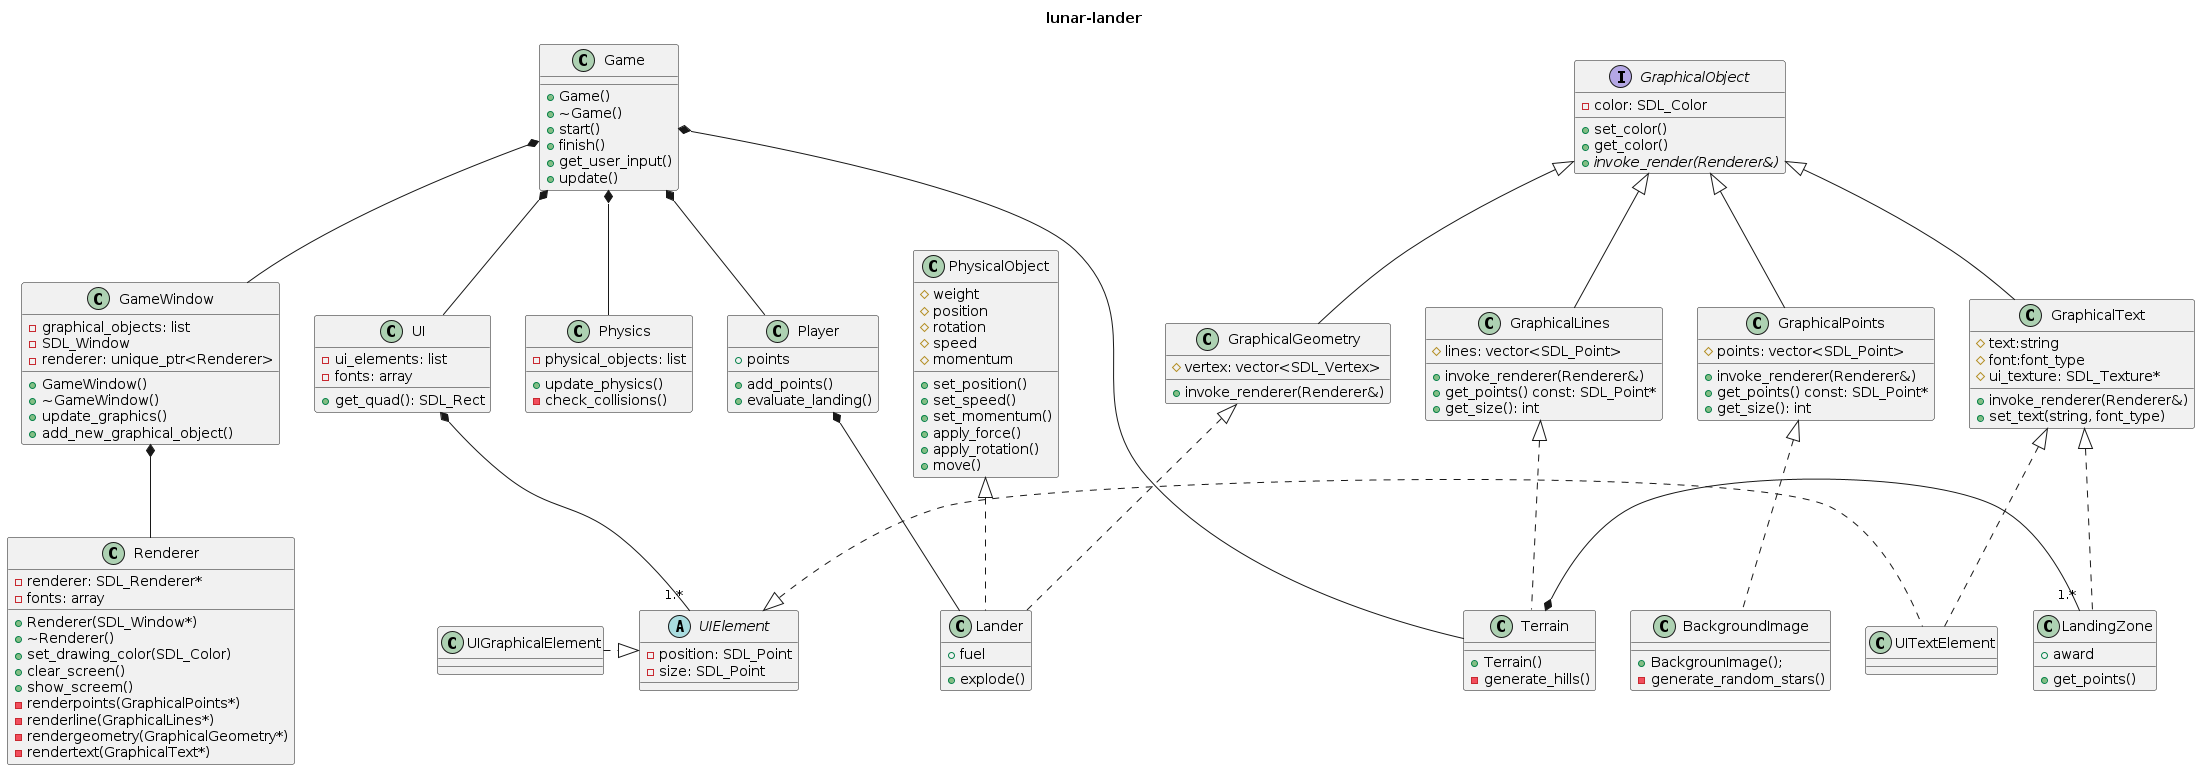
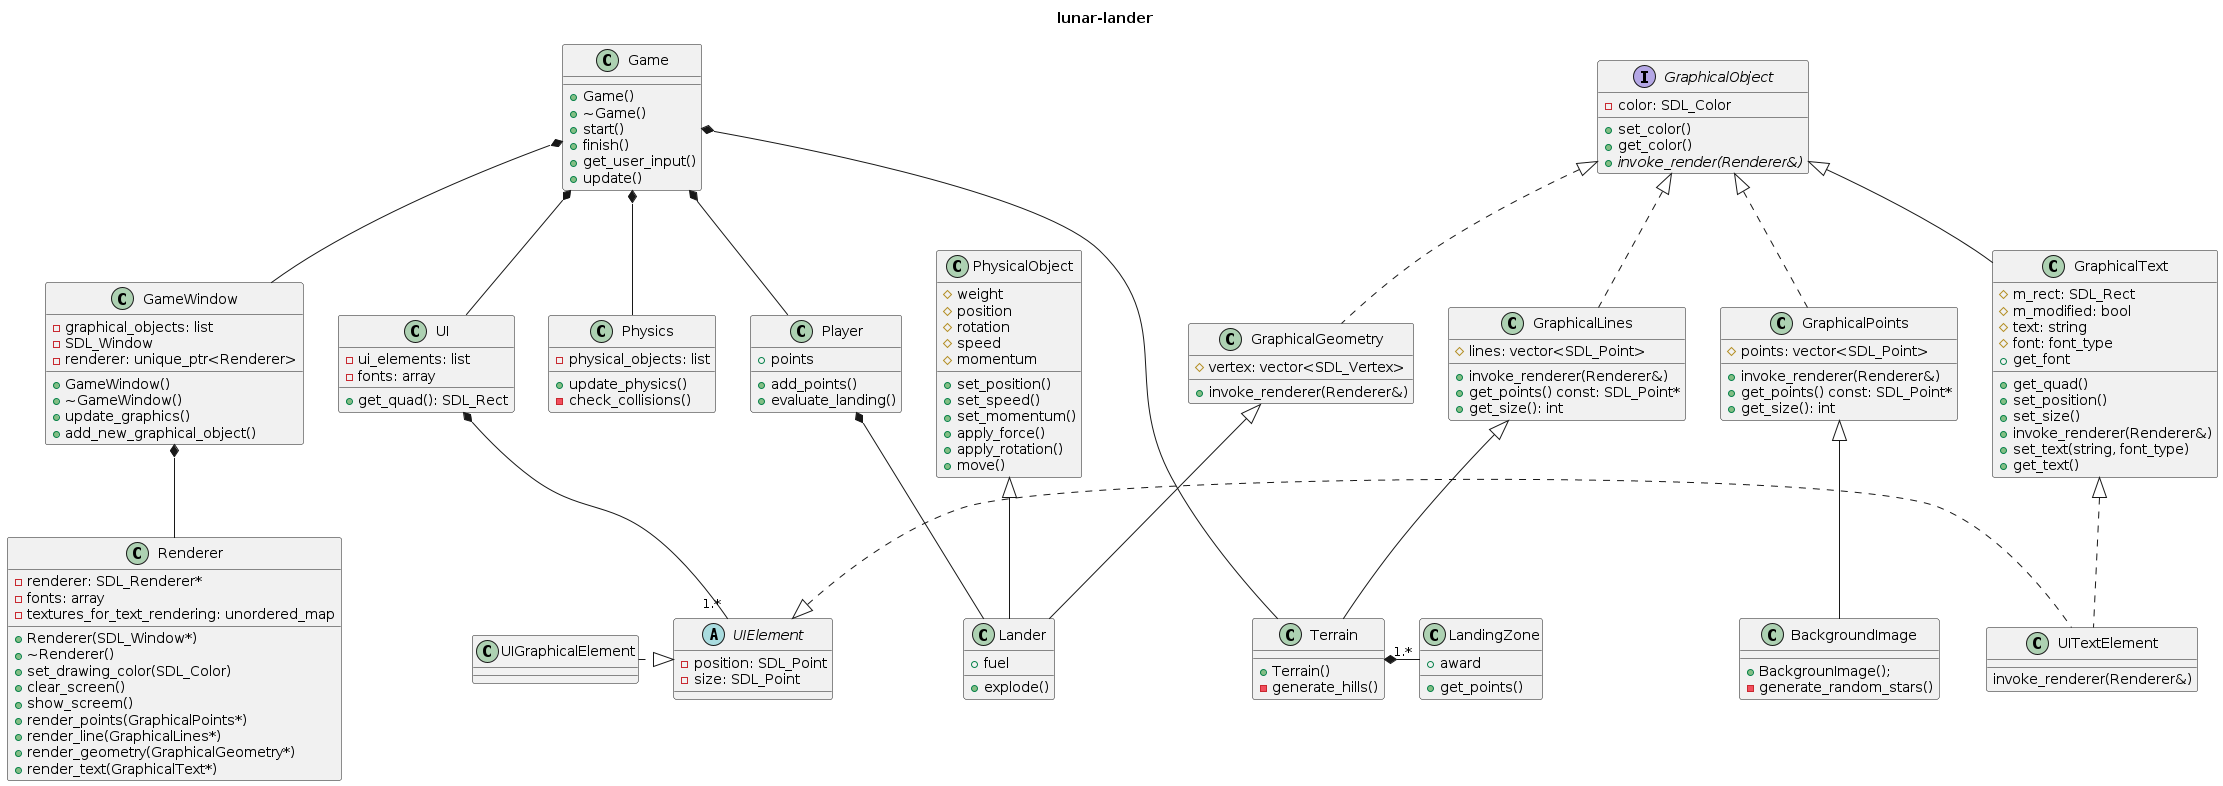
added text rendering via Renderer class

diff --git a/src/graphics.cpp b/src/graphics.cpp
@@ -15,37 +15,33 @@ void GraphicalLines::invoke_renderer(Renderer& renderer)
     renderer.render_line(this);
 }
 
-// void GraphicalText::invoke_renderer(Renderer& renderer)
-// {
-//     if (modified) {
-//         // render_texture();
-//     }
-// }
+void GraphicalText::invoke_renderer(Renderer& renderer)
+{
+    if (m_modified) {
+        renderer.render_texture_from_text(this);
+        m_modified = 0;
+    }
+    renderer.render_text(this);
+}
 
 void GraphicalText::set_text(std::string text_, font_type font_)
 {
-    text = text_;
-    font = font_;
+    m_text = text_;
+    m_font = font_;
+    m_modified = true;
 }
 
-// void GraphicalText::render_texture(TTF_Font* font, SDL_Renderer* renderer)
-// {
-//     SDL_Surface* textSurface = TTF_RenderText_Solid(font,text.c_str(),color::white);
-//     if (textSurface == NULL) {
-//         printf("Unable to render text surface! SDL_ttf Error: %s\n",TTF_GetError());
-//     }
-//     else {
-//         //Create texture from surface pixels
-//         ui_texture = SDL_CreateTextureFromSurface(renderer,textSurface);
-//         if (ui_texture == NULL){
-//             printf("Unable to create texture from rendered text! SDL Error: %s\n",SDL_GetError());
-//         }
-//     }
-//     size.x = textSurface->w;
-//     size.y = textSurface->h;
-//     SDL_FreeSurface(textSurface);
-// }
+void GraphicalText::set_position(SDL_Point position)
+{
+    m_rect.x = position.x;
+    m_rect.y = position.y;
+}
 
+void GraphicalText::set_size(SDL_Point position)
+{
+    m_rect.w = position.x;
+    m_rect.h = position.y;
+}
 
 Renderer::Renderer(SDL_Window* window)
 {
@@ -58,8 +54,8 @@ Renderer::Renderer(SDL_Window* window)
 
 Renderer::~Renderer()
 {
-    SDL_DestroyRenderer(renderer);
     std::for_each(fonts.begin(), fonts.end(), TTF_CloseFont);
+    SDL_DestroyRenderer(renderer);
 }
 
 void Renderer::set_drawing_color(const SDL_Color& color)
@@ -81,8 +77,28 @@ void Renderer::render_line(const GraphicalLines* rendered)
     SDL_RenderDrawLines(renderer,rendered->get_points(),rendered->get_size());
 }
 
-// void Renderer::render_text(const GraphicalText* rendered)
-// {
-//     SDL_RenderCopy(renderer,text_texture,NULL,&render_quad);
-// }
+void Renderer::render_text(const GraphicalText* rendered)
+{
+    SDL_Rect destination_rect = rendered->get_quad();
+    SDL_RenderCopy(renderer,textures_for_text_rendering[rendered],NULL, &destination_rect);
+}
 
+void Renderer::render_texture_from_text(GraphicalText* graphical_text)
+{
+    SDL_Surface* textSurface = TTF_RenderText_Solid(fonts[graphical_text->get_font()],graphical_text->get_text(),graphical_text->getColor());
+    if (textSurface == NULL) {
+        printf("Unable to render text surface! SDL_ttf Error: %s\n",TTF_GetError());
+    }
+    else {
+        //Create texture from surface pixels
+        textures_for_text_rendering[graphical_text] = SDL_CreateTextureFromSurface(renderer,textSurface);
+        if (textures_for_text_rendering[graphical_text] == NULL){
+            printf("Unable to create texture from rendered text! SDL Error: %s\n",SDL_GetError());
+        }
+    }
+    SDL_Point size;
+    size.x = textSurface->w;
+    size.y = textSurface->h;
+    graphical_text->set_size(size);
+    SDL_FreeSurface(textSurface);
+}

diff --git a/inc/graphics.h b/inc/graphics.h
@@ -3,6 +3,7 @@
 #include <vector>
 #include <string>
 #include <array>
+#include <unordered_map>
 #include <SDL.h>
 #include <SDL_ttf.h>
 
@@ -45,20 +46,24 @@ public:
     void invoke_renderer(Renderer&) override;
     auto get_points() const{return points.data();};
     auto get_size() const{return points.size();};
-
 protected:
     std::vector<SDL_Point> points;
 };
 
 class GraphicalText: public virtual GraphicalObject {
 public:
-    void set_text(std::string, font_type);
+    SDL_Rect get_quad() const {return m_rect;};
+    void set_position(SDL_Point);
+    void set_size(SDL_Point);
     void invoke_renderer(Renderer&) override;
+    void set_text(std::string, font_type);
+    auto get_text() const {return m_text.c_str();};
+    font_type get_font() const {return m_font;};
 protected:
-    bool modified;
-    std::string text;
-    font_type font;
-    SDL_Texture* text_texture;
+    SDL_Rect m_rect;
+    bool m_modified;
+    std::string m_text;
+    font_type m_font;
 };
 
 class Renderer {
@@ -70,8 +75,10 @@ public:
     void show_screen() const {SDL_RenderPresent(renderer);};
     void render_line(const GraphicalLines*);
     void render_points(const GraphicalPoints*);
-    // void render_text(const GraphicalText*);
+    void render_text(const GraphicalText*);
+    void render_texture_from_text(GraphicalText*);
 private:
     SDL_Renderer* renderer;
     std::array<TTF_Font*, FONT_NUM> fonts;
+    std::unordered_map<const GraphicalText*, SDL_Texture*> textures_for_text_rendering; 
 };

diff --git a/src/game.cpp b/src/game.cpp
@@ -58,9 +58,10 @@ Game::Game()
 {
     window.add_new_graphical_object(&background);
     window.add_new_graphical_object(&terrain);
-    // auto title = new UITextElement();
-    // title->set_text("Lunar Lander",TITLE_FONT);
-    // ui.add_ui_element(title);
+    auto title = new GraphicalText;
+    title->set_text("Lunar Lander",TITLE_FONT);
+    title->setColor(color::white);
+    window.add_new_graphical_object(title);
 }
 
 Game::~Game()
